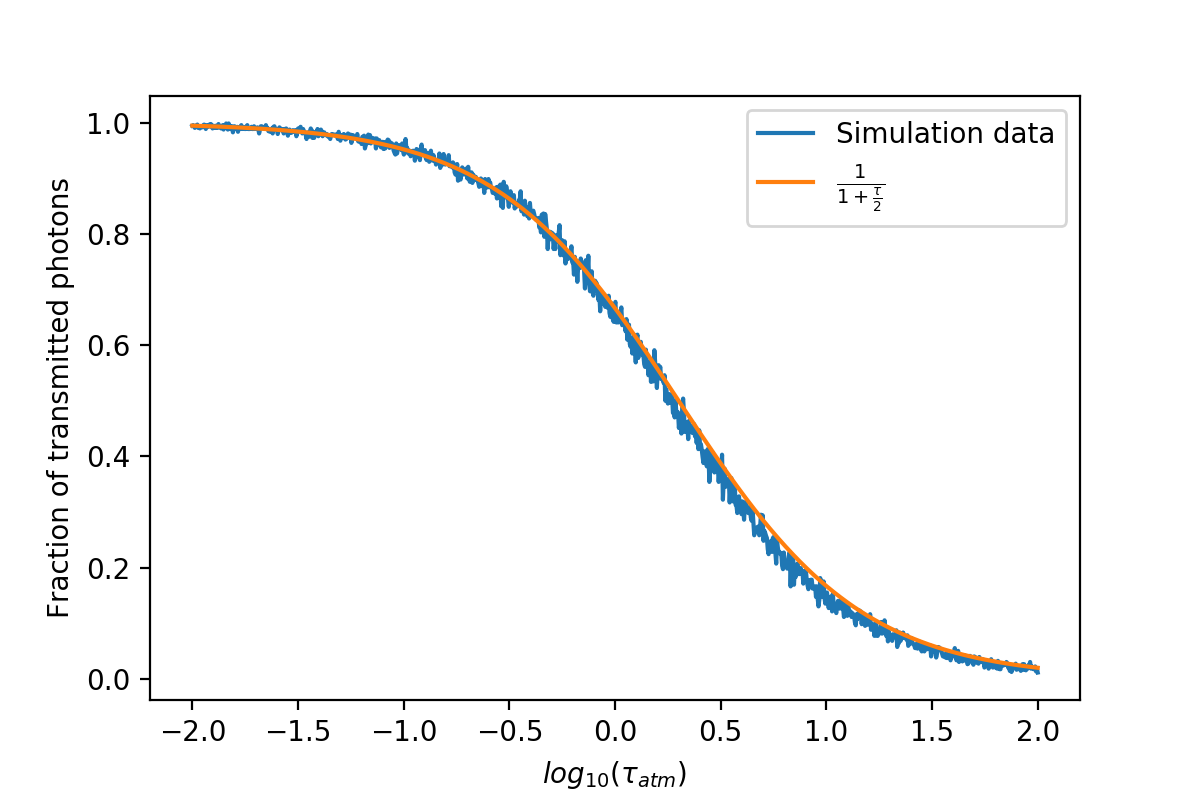
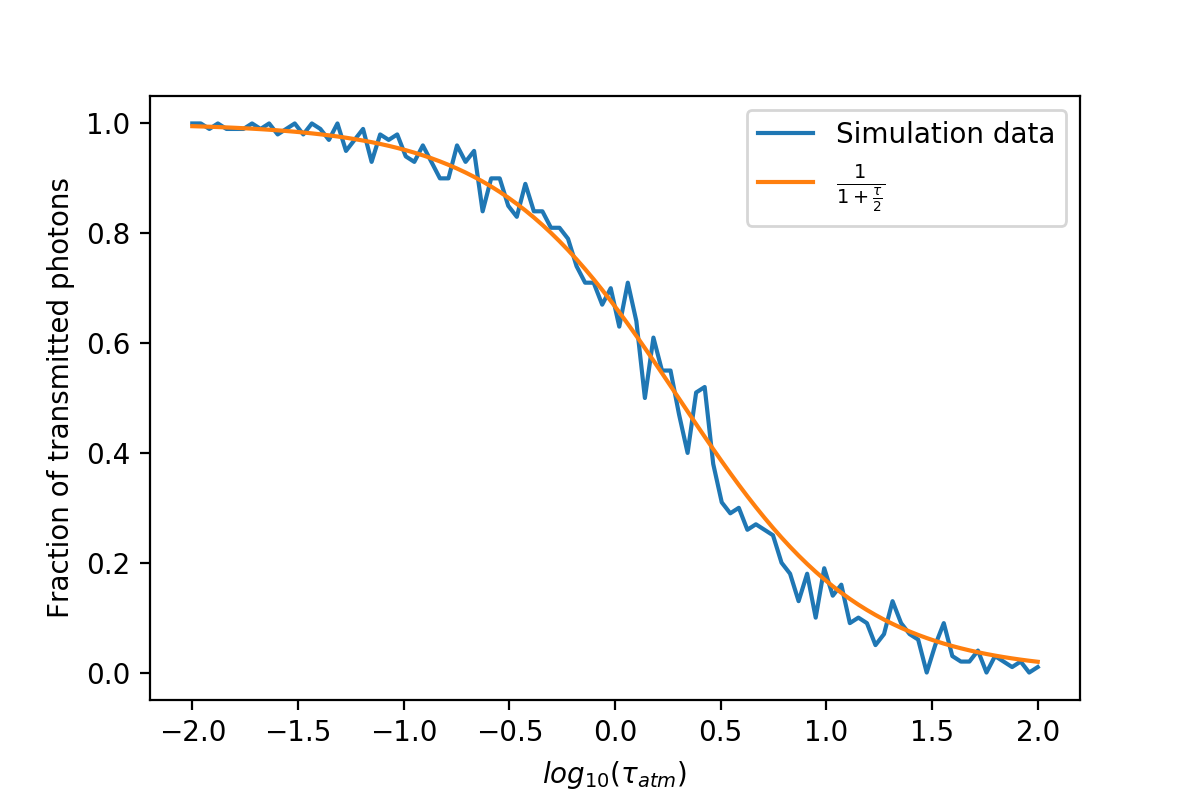
momentum transfer
begining to add momentum transfer.

diff --git a/1D test.py b/1D test.py
@@ -3,8 +3,8 @@ import numpy as np
 import matplotlib.pyplot as plt
 
 # atmosphere depth, numpy array from 0 to 10 with N_atm evenly spaced samples
-N_atm = 1000
-tau_atm = np.logspace(-2,2,N_atm,base=10)
+N_atm = 100
+tau_atm = np.logspace(-2,3,N_atm,base=10)
 # tau_atm = np.array([0.01,0.03,0.1,0.3,1,3,10])
 
 # The number of photons to simulate for each optical depth
@@ -20,6 +20,14 @@ N_photons = 1000
 tau_i = [0,0,0]
 mu_i = 1
 phi_i = 0
+
+# We will use units of h*nu/c = 1, We can change this or iterate over a list of frequencies later.
+photon_momentum = 1
+
+# Total momentum
+momentum_i = photon_momentum*N_photons
+
+momentum_transfer = momentum_i*np.ones_like(tau_atm)
 
 # Counter for the number of photons that get absorbed
 N_absorbed = np.zeros_like(tau_atm)
@@ -59,9 +67,11 @@ for atm_i,atm in enumerate(tau_atm):
             tau = TakeStep(tau,mu,phi)
            
             if tau[2] >= atm:
+                momentum_transfer[atm_i] -= mu
                 break
             elif tau[2] < 0:
                 N_absorbed[atm_i] += 1
+                momentum_transfer[atm_i] -= mu
                 break
             
             # If the photon did not escape or get absorbed decide on a new scattering angle.
@@ -72,9 +82,14 @@ frac_transmitted = 1-N_absorbed/N_photons
 theory = 1/(1+tau_atm/2)
 
 # Plot data
-plt.plot(np.log10(tau_atm), frac_transmitted, label="Simulation data")
-plt.plot(np.log10(tau_atm),theory,label = r'$\frac{1}{1+\frac{\tau}{2}}$')
-plt.legend()
+# plt.plot(np.log10(tau_atm), frac_transmitted, label="Simulation data")
+# plt.plot(np.log10(tau_atm),theory,label = r'$\frac{1}{1+\frac{\tau}{2}}$')
+# plt.legend()
+# plt.xlabel(r'$log_{10}(\tau_{atm})$')
+# plt.ylabel('Fraction of transmitted photons')
+# plt.savefig('1D_Plot.png',dpi=200)
+
+plt.plot(np.log10(tau_atm),momentum_transfer/N_photons)
 plt.xlabel(r'$log_{10}(\tau_{atm})$')
-plt.ylabel('Fraction of transmitted photons')
-plt.savefig('1D_Plot.png',dpi=200)
+plt.ylabel('Momentum transferred per photon')
+plt.savefig('1D_Momentum_Plot.png',dpi=200)
